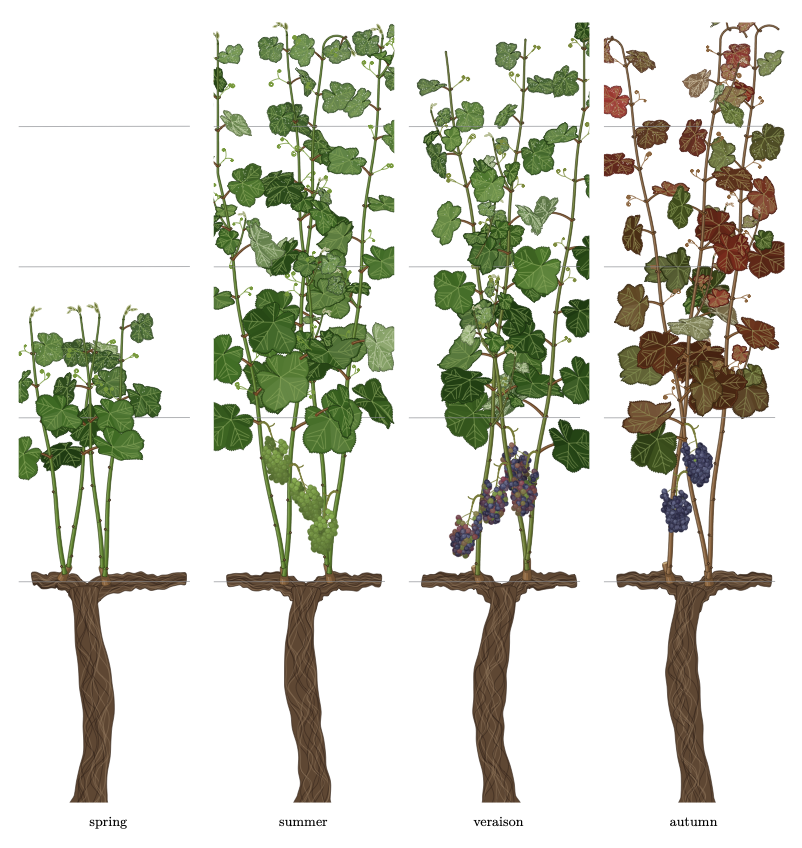
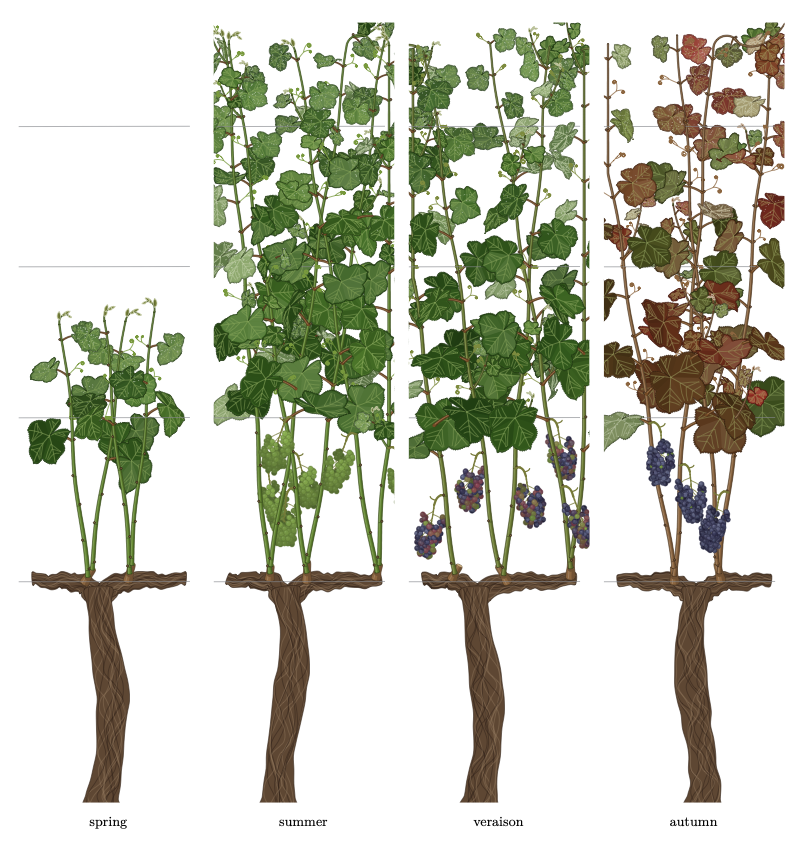
restore images to 6 varieties

diff --git a/gallery/trenzado.tex b/gallery/trenzado.tex
@@ -3,7 +3,7 @@
 \usepackage{graphicx}
 \newcommand\margin[3]{\begin{tabular}{@{}c@{}}\includegraphics[page=#1,trim=0 8mm 143mm 79mm,clip,width=#3]{trenzado-showcase.pdf}\\[1mm]\small #2\end{tabular}}
 \begin{document}
-\setbox0\hbox{\margin{1}{Pinot Noir}{4.2cm}\hspace{3mm}\margin{2}{Saperavi}{4.2cm}\hspace{3mm}\margin{3}{Gewürztraminer}{4.2cm}\hspace{3mm}\margin{4}{Rkatsiteli}{4.2cm}\hspace{3mm}\margin{5}{Regent}{4.2cm}\hspace{3mm}\margin{6}{Johanniter}{4.2cm}\hspace{3mm}\margin{7}{Touriga Nacional}{4.2cm}\hspace{3mm}\margin{8}{Vidiano}{4.2cm}}
+\setbox0\hbox{\margin{2}{Saperavi}{4.2cm}\hspace{3mm}\margin{3}{Gewürztraminer}{4.2cm}\hspace{3mm}\margin{4}{Rkatsiteli}{4.2cm}\hspace{3mm}\margin{5}{Regent}{4.2cm}\hspace{3mm}\margin{6}{Johanniter}{4.2cm}\hspace{3mm}\margin{7}{Touriga Nacional}{4.2cm}}
 \pagewidth=\dimexpr\wd0+8mm\relax
 \pageheight=\dimexpr\ht0+\dp0+8mm\relax
 \shipout\vbox{\kern\dimexpr4mm-1in\relax\hbox{\kern\dimexpr4mm-1in\relax\box0}}

diff --git a/gallery/varieties.tex b/gallery/varieties.tex
@@ -3,7 +3,7 @@
 \usepackage{graphicx}
 \newcommand\margin[3]{\begin{tabular}{@{}c@{}}\includegraphics[page=#1,trim=0 8mm 143mm 0,clip,width=#3]{../showcase.pdf}\\[1mm]\small #2\end{tabular}}
 \begin{document}
-\setbox0\hbox{\margin{1}{Pinot Noir}{4.2cm}\hspace{3mm}\margin{2}{Saperavi}{4.2cm}\hspace{3mm}\margin{3}{Gewürztraminer}{4.2cm}\hspace{3mm}\margin{4}{Rkatsiteli}{4.2cm}\hspace{3mm}\margin{5}{Regent}{4.2cm}\hspace{3mm}\margin{6}{Johanniter}{4.2cm}\hspace{3mm}\margin{7}{Touriga Nacional}{4.2cm}\hspace{3mm}\margin{8}{Vidiano}{4.2cm}}
+\setbox0\hbox{\margin{2}{Saperavi}{4.2cm}\hspace{3mm}\margin{3}{Gewürztraminer}{4.2cm}\hspace{3mm}\margin{4}{Rkatsiteli}{4.2cm}\hspace{3mm}\margin{5}{Regent}{4.2cm}\hspace{3mm}\margin{6}{Johanniter}{4.2cm}\hspace{3mm}\margin{11}{Touriga Nacional}{4.2cm}}
 \pagewidth=\dimexpr\wd0+8mm\relax
 \pageheight=\dimexpr\ht0+\dp0+8mm\relax
 \shipout\vbox{\kern\dimexpr4mm-1in\relax\hbox{\kern\dimexpr4mm-1in\relax\box0}}

diff --git a/gallery/seasons.tex b/gallery/seasons.tex
@@ -3,7 +3,7 @@
 \usepackage{graphicx}
 \newcommand\margin[3]{\begin{tabular}{@{}c@{}}\includegraphics[page=#1,trim=0 8mm 143mm 0,clip,width=#3]{../showcase.pdf}\\[1mm]\small #2\end{tabular}}
 \begin{document}
-\setbox0\hbox{\margin{9}{spring}{4.2cm}\hspace{3mm}\margin{10}{summer}{4.2cm}\hspace{3mm}\margin{11}{veraison}{4.2cm}\hspace{3mm}\margin{12}{autumn}{4.2cm}}
+\setbox0\hbox{\margin{7}{spring}{4.2cm}\hspace{3mm}\margin{8}{summer}{4.2cm}\hspace{3mm}\margin{9}{veraison}{4.2cm}\hspace{3mm}\margin{10}{autumn}{4.2cm}}
 \pagewidth=\dimexpr\wd0+8mm\relax
 \pageheight=\dimexpr\ht0+\dp0+8mm\relax
 \shipout\vbox{\kern\dimexpr4mm-1in\relax\hbox{\kern\dimexpr4mm-1in\relax\box0}}

diff --git a/showcase.tex b/showcase.tex
@@ -14,10 +14,10 @@
 \variety{rkatsiteli}{0.8}{Rkatsiteli}
 \variety{regent}{0.8}{Regent}
 \variety{johanniter}{0.8}{Johanniter}
-\variety{touriga}{0.8}{Touriga Nacional}
-\variety{vidiano}{0.8}{Vidiano}
 \variety{pinot}{0.15}{Pinot Noir in spring}
 \variety{pinot}{0.5}{Pinot Noir in summer}
 \variety{pinot}{0.7}{Pinot Noir at veraison}
 \variety{pinot}{1}{Pinot Noir in autumn}
+\variety{touriga}{0.8}{Touriga Nacional}
+\variety{vidiano}{0.8}{Vidiano}
 \end{document}

diff --git a/README.md b/README.md
@@ -8,7 +8,7 @@ across it in Tenerife's trenzado, in eight varieties, through the seasons. None 
 file. Every cane, leaf, tendril and grape is a curve computed while the page is made, so every
 page grows a vine of its own.
 
-![eight grapevines at harvest: pinot noir, saperavi, gewürztraminer, rkatsiteli, regent, johanniter, touriga nacional and vidiano](gallery/varieties.png)
+![six grapevines at harvest: saperavi, gewürztraminer, rkatsiteli, regent, johanniter and touriga nacional](gallery/varieties.png)
 
 *Eight varieties at harvest, each the margin of a page of `showcase.tex`.*
 
@@ -44,7 +44,7 @@ page and is drawn mirrored.
 
 ## The trenzado
 
-![eight trenzado vines at harvest: pinot noir, saperavi, gewürztraminer, rkatsiteli, regent, johanniter, touriga nacional and vidiano](gallery/trenzado.png)
+![six trenzado vines at harvest: saperavi, gewürztraminer, rkatsiteli, regent, johanniter and touriga nacional](gallery/trenzado.png)
 
 *The same eight varieties, the same pages, trained as trenzado (`pruning=trenzado`).*
 
